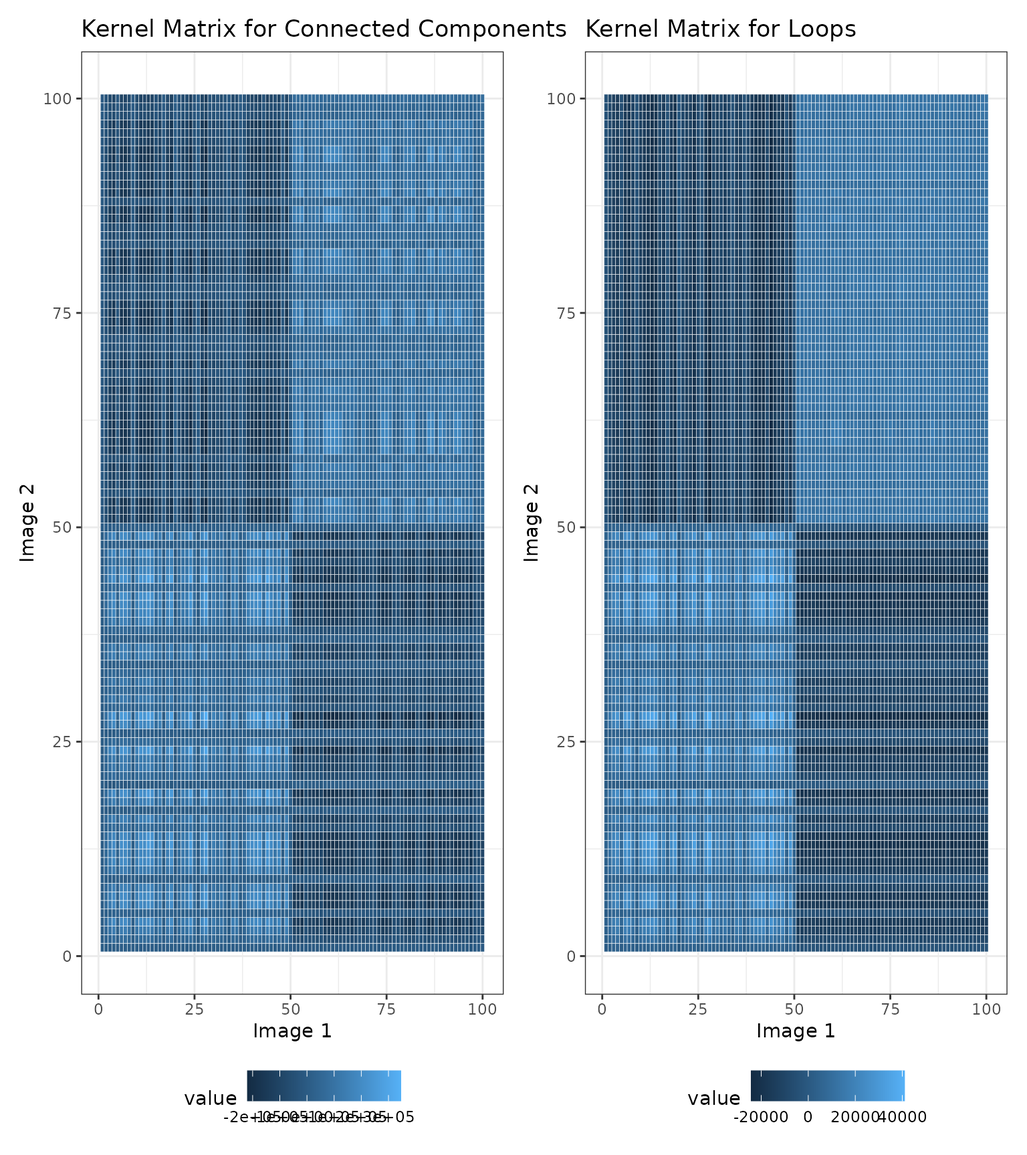
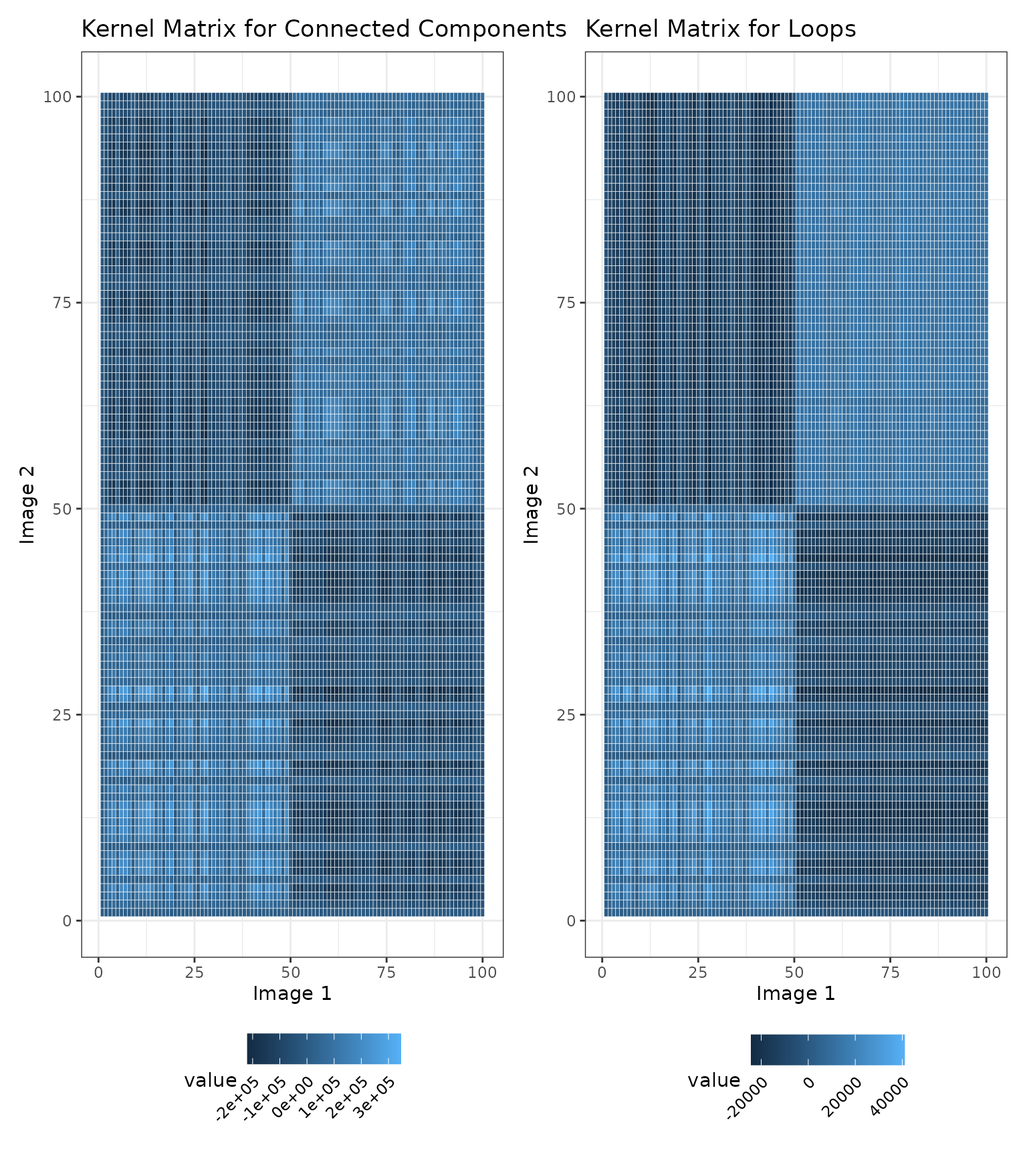
Deploying to gh-pages from @ sarahsamorodnitsky/TopKAT@42ec70c85c84a7fd9c76b6f7232c2986b8667e06 🚀

diff --git a/articles/example_sim_tissue.html b/articles/example_sim_tissue.html
@@ -91,7 +91,7 @@ our simulated data.</p>
 <span><span class="co">#&gt; Registered S3 method overwritten by 'httr':</span></span>
 <span><span class="co">#&gt;   method         from  </span></span>
 <span><span class="co">#&gt;   print.response rmutil</span></span>
-<span><span class="kw"><a href="https://rdrr.io/r/base/library.html" class="external-link">library</a></span><span class="op">(</span><span class="va">gridExtra</span><span class="op">)</span></span>
+<span><span class="kw"><a href="https://rdrr.io/r/base/library.html" class="external-link">library</a></span><span class="op">(</span><span class="va"><a href="https://patchwork.data-imaginist.com" class="external-link">patchwork</a></span><span class="op">)</span></span>
 <span><span class="kw"><a href="https://rdrr.io/r/base/library.html" class="external-link">library</a></span><span class="op">(</span><span class="va"><a href="https://github.com/therneau/survival" class="external-link">survival</a></span><span class="op">)</span></span>
 <span><span class="kw"><a href="https://rdrr.io/r/base/library.html" class="external-link">library</a></span><span class="op">(</span><span class="va"><a href="https://rpkgs.datanovia.com/survminer/index.html" class="external-link">survminer</a></span><span class="op">)</span></span>
 <span><span class="co">#&gt; Loading required package: ggplot2</span></span>
@@ -157,7 +157,7 @@ patterns among the cells.</p>
 <span>  <span class="fu"><a href="https://ggplot2.tidyverse.org/reference/ggtheme.html" class="external-link">theme_bw</a></span><span class="op">(</span><span class="op">)</span> <span class="op">+</span> <span class="fu"><a href="https://ggplot2.tidyverse.org/reference/labs.html" class="external-link">ggtitle</a></span><span class="op">(</span><span class="st">"Sample 52"</span><span class="op">)</span></span>
 <span></span>
 <span><span class="co"># Arrange the plots</span></span>
-<span><span class="fu">gridExtra</span><span class="fu">::</span><span class="fu"><a href="https://rdrr.io/pkg/gridExtra/man/arrangeGrob.html" class="external-link">grid.arrange</a></span><span class="op">(</span><span class="va">p1</span>, <span class="va">p2</span>, <span class="va">p3</span>, <span class="va">p4</span>, ncol <span class="op">=</span> <span class="fl">2</span>, nrow <span class="op">=</span> <span class="fl">2</span><span class="op">)</span></span></code></pre></div>
+<span><span class="op">(</span><span class="va">p1</span> <span class="op">+</span> <span class="va">p2</span> <span class="op">+</span> <span class="va">p3</span> <span class="op">+</span> <span class="va">p4</span> <span class="op">&amp;</span> <span class="fu"><a href="https://ggplot2.tidyverse.org/reference/theme.html" class="external-link">theme</a></span><span class="op">(</span>legend.position <span class="op">=</span> <span class="st">"bottom"</span><span class="op">)</span><span class="op">)</span> <span class="op">+</span> <span class="fu"><a href="https://patchwork.data-imaginist.com/reference/plot_layout.html" class="external-link">plot_layout</a></span><span class="op">(</span>guides <span class="op">=</span> <span class="st">"collect"</span><span class="op">)</span></span></code></pre></div>
 <p><img src="example_sim_tissue_files/figure-html/plotting%20the%20data-1.png" width="768" style="display: block; margin: auto;">
 ## Applying TopKAT</p>
 <p>The goal of TopKAT is to test whether images with similar geometric
@@ -165,8 +165,8 @@ structures created by cells correspond to patients with similar outcomes
 (in this case, survival). The null hypothesis we wish to test is:</p>
 <p><math display="inline" xmlns="http://www.w3.org/1998/Math/MathML"><semantics><msub><mi>H</mi><mn>0</mn></msub><annotation encoding="application/x-tex">H_0</annotation></semantics></math>:
 There is no association between survival time and topological structure
-of cells
-<math display="inline" xmlns="http://www.w3.org/1998/Math/MathML"><semantics><msub><mi>H</mi><mn>1</mn></msub><annotation encoding="application/x-tex">H_1</annotation></semantics></math>:
+of cells \</p>
+<p><math display="inline" xmlns="http://www.w3.org/1998/Math/MathML"><semantics><msub><mi>H</mi><mn>1</mn></msub><annotation encoding="application/x-tex">H_1</annotation></semantics></math>:
 There is an association between survival time and topological structure
 of cells</p>
 <p>If the TopKAT p-value is small, this is evidence against
@@ -202,7 +202,7 @@ corresponding persistence diagrams for the four samples shown above.</p>
 <span><span class="va">pd4</span> <span class="op">&lt;-</span> <span class="fu"><a href="../reference/plot_persistence.html">plot_persistence</a></span><span class="op">(</span><span class="va">simmat</span><span class="op">$</span><span class="va">rips.list</span><span class="op">[[</span><span class="fl">52</span><span class="op">]</span><span class="op">]</span>, title <span class="op">=</span> <span class="st">"Patient 52"</span><span class="op">)</span></span>
 <span></span>
 <span><span class="co"># Arrange the plots</span></span>
-<span><span class="fu">gridExtra</span><span class="fu">::</span><span class="fu"><a href="https://rdrr.io/pkg/gridExtra/man/arrangeGrob.html" class="external-link">grid.arrange</a></span><span class="op">(</span><span class="va">pd1</span>, <span class="va">pd2</span>, <span class="va">pd3</span>, <span class="va">pd4</span>, ncol <span class="op">=</span> <span class="fl">2</span>, nrow <span class="op">=</span> <span class="fl">2</span><span class="op">)</span></span></code></pre></div>
+<span><span class="op">(</span><span class="va">pd1</span> <span class="op">+</span> <span class="va">pd2</span> <span class="op">+</span> <span class="va">pd3</span> <span class="op">+</span> <span class="va">pd4</span> <span class="op">&amp;</span> <span class="fu"><a href="https://ggplot2.tidyverse.org/reference/theme.html" class="external-link">theme</a></span><span class="op">(</span>legend.position <span class="op">=</span> <span class="st">"bottom"</span><span class="op">)</span><span class="op">)</span> <span class="op">+</span> <span class="fu"><a href="https://patchwork.data-imaginist.com/reference/plot_layout.html" class="external-link">plot_layout</a></span><span class="op">(</span>guides <span class="op">=</span> <span class="st">"collect"</span><span class="op">)</span></span></code></pre></div>
 <p><img src="example_sim_tissue_files/figure-html/example%20PDs-1.png" width="768" style="display: block; margin: auto;"></p>
 <p>We also show a visualization of the kernel matrices to describe the
 similarities among the images. Note that the similarity values in the
@@ -216,7 +216,8 @@ to compare the similarities between two pairs of images.</p>
 <span>  <span class="fu"><a href="https://ggplot2.tidyverse.org/reference/geom_tile.html" class="external-link">geom_tile</a></span><span class="op">(</span>color <span class="op">=</span> <span class="st">"white"</span><span class="op">)</span> <span class="op">+</span></span>
 <span>  <span class="fu"><a href="https://ggplot2.tidyverse.org/reference/ggtheme.html" class="external-link">theme_bw</a></span><span class="op">(</span><span class="op">)</span> <span class="op">+</span></span>
 <span>  <span class="fu"><a href="https://ggplot2.tidyverse.org/reference/labs.html" class="external-link">xlab</a></span><span class="op">(</span><span class="st">"Image 1"</span><span class="op">)</span> <span class="op">+</span> <span class="fu"><a href="https://ggplot2.tidyverse.org/reference/labs.html" class="external-link">ylab</a></span><span class="op">(</span><span class="st">"Image 2"</span><span class="op">)</span> <span class="op">+</span></span>
-<span>  <span class="fu"><a href="https://ggplot2.tidyverse.org/reference/labs.html" class="external-link">ggtitle</a></span><span class="op">(</span><span class="st">"Kernel Matrix for Connected Components"</span><span class="op">)</span></span>
+<span>  <span class="fu"><a href="https://ggplot2.tidyverse.org/reference/labs.html" class="external-link">ggtitle</a></span><span class="op">(</span><span class="st">"Kernel Matrix for Connected Components"</span><span class="op">)</span> <span class="op">+</span></span>
+<span>  <span class="fu"><a href="https://ggplot2.tidyverse.org/reference/theme.html" class="external-link">theme</a></span><span class="op">(</span>legend.text <span class="op">=</span> <span class="fu"><a href="https://ggplot2.tidyverse.org/reference/element.html" class="external-link">element_text</a></span><span class="op">(</span>angle <span class="op">=</span> <span class="fl">45</span>, hjust <span class="op">=</span> <span class="fl">1</span><span class="op">)</span><span class="op">)</span></span>
 <span>  </span>
 <span></span>
 <span><span class="co"># Visualize the kernel matrices for the loops</span></span>
@@ -226,10 +227,11 @@ to compare the similarities between two pairs of images.</p>
 <span>  <span class="fu"><a href="https://ggplot2.tidyverse.org/reference/geom_tile.html" class="external-link">geom_tile</a></span><span class="op">(</span>color <span class="op">=</span> <span class="st">"white"</span><span class="op">)</span> <span class="op">+</span></span>
 <span>  <span class="fu"><a href="https://ggplot2.tidyverse.org/reference/ggtheme.html" class="external-link">theme_bw</a></span><span class="op">(</span><span class="op">)</span> <span class="op">+</span></span>
 <span>  <span class="fu"><a href="https://ggplot2.tidyverse.org/reference/labs.html" class="external-link">xlab</a></span><span class="op">(</span><span class="st">"Image 1"</span><span class="op">)</span> <span class="op">+</span> <span class="fu"><a href="https://ggplot2.tidyverse.org/reference/labs.html" class="external-link">ylab</a></span><span class="op">(</span><span class="st">"Image 2"</span><span class="op">)</span> <span class="op">+</span></span>
-<span>  <span class="fu"><a href="https://ggplot2.tidyverse.org/reference/labs.html" class="external-link">ggtitle</a></span><span class="op">(</span><span class="st">"Kernel Matrix for Loops"</span><span class="op">)</span></span>
+<span>  <span class="fu"><a href="https://ggplot2.tidyverse.org/reference/labs.html" class="external-link">ggtitle</a></span><span class="op">(</span><span class="st">"Kernel Matrix for Loops"</span><span class="op">)</span> <span class="op">+</span></span>
+<span>  <span class="fu"><a href="https://ggplot2.tidyverse.org/reference/theme.html" class="external-link">theme</a></span><span class="op">(</span>legend.text <span class="op">=</span> <span class="fu"><a href="https://ggplot2.tidyverse.org/reference/element.html" class="external-link">element_text</a></span><span class="op">(</span>angle <span class="op">=</span> <span class="fl">45</span>, hjust <span class="op">=</span> <span class="fl">1</span><span class="op">)</span><span class="op">)</span></span>
 <span></span>
 <span><span class="co"># Arrange the plots</span></span>
-<span><span class="fu">gridExtra</span><span class="fu">::</span><span class="fu"><a href="https://rdrr.io/pkg/gridExtra/man/arrangeGrob.html" class="external-link">grid.arrange</a></span><span class="op">(</span><span class="va">K.cc</span>, <span class="va">K.loop</span>, ncol <span class="op">=</span> <span class="fl">2</span><span class="op">)</span></span></code></pre></div>
+<span><span class="va">K.cc</span> <span class="op">+</span> <span class="va">K.loop</span> <span class="op">&amp;</span> <span class="fu"><a href="https://ggplot2.tidyverse.org/reference/theme.html" class="external-link">theme</a></span><span class="op">(</span>legend.position <span class="op">=</span> <span class="st">"bottom"</span><span class="op">)</span></span></code></pre></div>
 <p><img src="example_sim_tissue_files/figure-html/visualize%20the%20kernel%20matrices-1.png" width="768" style="display: block; margin: auto;"></p>
 <p>Finally, we can test for an association with survival given the
 kernel matrices we computed above. Since we have two kernel matrices, we
@@ -239,7 +241,7 @@ results across different mixtures. A straightforward choice of weights
 is
 <math display="inline" xmlns="http://www.w3.org/1998/Math/MathML"><semantics><mrow><mi>ω</mi><mo>=</mo><mrow><mo stretchy="true" form="prefix">(</mo><mn>0</mn><mo>,</mo><mn>0.5</mn><mo>,</mo><mn>1</mn><mo stretchy="true" form="postfix">)</mo></mrow></mrow><annotation encoding="application/x-tex">\omega = (0, 0.5, 1)</annotation></semantics></math>
 in the following linear combination:</p>
-<p>$ K^{agg} = (1-) K_0 + K_1$</p>
+<p><math display="inline" xmlns="http://www.w3.org/1998/Math/MathML"><semantics><mrow><msup><mi>K</mi><mrow><mi>a</mi><mi>g</mi><mi>g</mi></mrow></msup><mo>=</mo><mrow><mo stretchy="true" form="prefix">(</mo><mn>1</mn><mo>−</mo><mi>ω</mi><mo stretchy="true" form="postfix">)</mo></mrow><msub><mi>K</mi><mn>0</mn></msub><mo>+</mo><mi>ω</mi><msub><mi>K</mi><mn>1</mn></msub></mrow><annotation encoding="application/x-tex">K^{agg} = (1-\omega) K_0 + \omega K_1</annotation></semantics></math></p>
 <p>We now apply TopKAT. As shown below, the TopKAT p-value is
 significant,
 <math display="inline" xmlns="http://www.w3.org/1998/Math/MathML"><semantics><mrow><mn>2</mn><mo>×</mo><msup><mn>10</mn><mrow><mo>−</mo><mn>5</mn></mrow></msup></mrow><annotation encoding="application/x-tex">2\times 10^{-5}</annotation></semantics></math>.</p>
@@ -320,7 +322,7 @@ like for our example images:</p>
 <span><span class="op">)</span></span>
 <span></span>
 <span><span class="co"># Arrange the plots</span></span>
-<span><span class="fu">gridExtra</span><span class="fu">::</span><span class="fu"><a href="https://rdrr.io/pkg/gridExtra/man/arrangeGrob.html" class="external-link">grid.arrange</a></span><span class="op">(</span><span class="va">sc1</span>, <span class="va">sc2</span>, <span class="va">sc3</span>, <span class="va">sc4</span>, nrow <span class="op">=</span> <span class="fl">2</span>, ncol <span class="op">=</span> <span class="fl">2</span><span class="op">)</span></span></code></pre></div>
+<span><span class="va">sc1</span> <span class="op">+</span> <span class="va">sc2</span> <span class="op">+</span> <span class="va">sc3</span> <span class="op">+</span> <span class="va">sc4</span></span></code></pre></div>
 <p><img src="example_sim_tissue_files/figure-html/simplicial%20complex-1.png" width="768" style="display: block; margin: auto;"></p>
 <p>Finally, we can examine the connectivity of the cell types at this
 radius using connectivity matrices. These matrices enumerate how many
@@ -362,7 +364,7 @@ We visualize these matrices for the four samples given above.</p>
 <span><span class="op">)</span></span>
 <span></span>
 <span><span class="co"># Arrange the plots</span></span>
-<span><span class="fu">gridExtra</span><span class="fu">::</span><span class="fu"><a href="https://rdrr.io/pkg/gridExtra/man/arrangeGrob.html" class="external-link">grid.arrange</a></span><span class="op">(</span><span class="va">c1</span>, <span class="va">c2</span>, <span class="va">c3</span>, <span class="va">c4</span>, nrow <span class="op">=</span> <span class="fl">2</span>, ncol <span class="op">=</span> <span class="fl">2</span><span class="op">)</span></span></code></pre></div>
+<span><span class="va">c1</span> <span class="op">+</span> <span class="va">c2</span> <span class="op">+</span> <span class="va">c3</span> <span class="op">+</span> <span class="va">c4</span></span></code></pre></div>
 <p><img src="example_sim_tissue_files/figure-html/connectivity%20matrices-1.png" width="768" style="display: block; margin: auto;"></p>
 <p>It can also be illustrative to compute an average connectivity matrix
 across the whole cohort or within known patient samples, as shown

diff --git a/articles/TopKAT.html b/articles/TopKAT.html
@@ -97,7 +97,6 @@ our simulated data.</p>
 <span><span class="co">#&gt;   method         from  </span></span>
 <span><span class="co">#&gt;   print.response rmutil</span></span>
 <span><span class="kw"><a href="https://rdrr.io/r/base/library.html" class="external-link">library</a></span><span class="op">(</span><span class="va"><a href="https://patchwork.data-imaginist.com" class="external-link">patchwork</a></span><span class="op">)</span></span>
-<span><span class="kw"><a href="https://rdrr.io/r/base/library.html" class="external-link">library</a></span><span class="op">(</span><span class="va">gridExtra</span><span class="op">)</span></span>
 <span><span class="kw"><a href="https://rdrr.io/r/base/library.html" class="external-link">library</a></span><span class="op">(</span><span class="va"><a href="https://github.com/therneau/survival" class="external-link">survival</a></span><span class="op">)</span></span>
 <span><span class="kw"><a href="https://rdrr.io/r/base/library.html" class="external-link">library</a></span><span class="op">(</span><span class="va"><a href="https://rpkgs.datanovia.com/survminer/index.html" class="external-link">survminer</a></span><span class="op">)</span></span>
 <span><span class="co">#&gt; Loading required package: ggplot2</span></span>
@@ -120,17 +119,17 @@ our simulated data.</p>
 <span><span class="co">#&gt; 4   1  1 44.48928 16.3068 cell type 4</span></span>
 <span><span class="co">#&gt; 5   1  1 45.48928 16.3068 cell type 3</span></span>
 <span><span class="co">#&gt; 6   1  1 46.48928 16.3068 cell type 3</span></span></code></pre></div>
-<p>As you can see, the data is organized so that each row corresponds to
-a cell within each image. The <code>PID</code> column refers to the
-sample or patient ID which, in this case, enumerates from <code>1</code>
-to <code>100</code>. The <code>id</code> column enumerates the image
-number within the sample since in many applications we have multiple
-images per patient. In this case, the <code>PID</code> and
-<code>id</code> columns are the same because we simulated a single image
-for each sample. The <code>x</code> and <code>y</code> columns denote
-the 2D coordinates of the cell locations. The <code>type</code> column
-contains a simulated type for each cell, ranging from
-<code>cell type 1</code> to <code>cell type 4</code>.</p>
+<p>The data is organized so that each row corresponds to a cell within
+each image. The <code>PID</code> column refers to the sample or patient
+ID which, in this case, enumerates from <code>1</code> to
+<code>100</code>. The <code>id</code> column enumerates the image number
+within the sample since in many applications we have multiple images per
+patient. In this case, the <code>PID</code> and <code>id</code> columns
+are the same because we simulated a single image for each sample. The
+<code>x</code> and <code>y</code> columns denote the 2D coordinates of
+the cell locations. The <code>type</code> column contains a simulated
+type for each cell, ranging from <code>cell type 1</code> to
+<code>cell type 4</code>.</p>
 <p>To simulate this data, we split the 100 samples into two groups of
 50. For the first 50 samples, we generated random numbers of squares.
 For the latter 50, we generated random numbers of unit circles. For
@@ -179,8 +178,8 @@ structures created by cells correspond to patients with similar outcomes
 (in this case, survival). The null hypothesis we wish to test is:</p>
 <p><math display="inline" xmlns="http://www.w3.org/1998/Math/MathML"><semantics><msub><mi>H</mi><mn>0</mn></msub><annotation encoding="application/x-tex">H_0</annotation></semantics></math>:
 There is no association between survival time and topological structure
-of cells
-<math display="inline" xmlns="http://www.w3.org/1998/Math/MathML"><semantics><msub><mi>H</mi><mn>1</mn></msub><annotation encoding="application/x-tex">H_1</annotation></semantics></math>:
+of cells</p>
+<p><math display="inline" xmlns="http://www.w3.org/1998/Math/MathML"><semantics><msub><mi>H</mi><mn>1</mn></msub><annotation encoding="application/x-tex">H_1</annotation></semantics></math>:
 There is an association between survival time and topological structure
 of cells</p>
 <p>If the TopKAT p-value is small, this is evidence against
@@ -251,7 +250,8 @@ to compare the similarities between two pairs of images.</p>
 <span>  <span class="fu"><a href="https://ggplot2.tidyverse.org/reference/geom_tile.html" class="external-link">geom_tile</a></span><span class="op">(</span>color <span class="op">=</span> <span class="st">"white"</span><span class="op">)</span> <span class="op">+</span></span>
 <span>  <span class="fu"><a href="https://ggplot2.tidyverse.org/reference/ggtheme.html" class="external-link">theme_bw</a></span><span class="op">(</span><span class="op">)</span> <span class="op">+</span></span>
 <span>  <span class="fu"><a href="https://ggplot2.tidyverse.org/reference/labs.html" class="external-link">xlab</a></span><span class="op">(</span><span class="st">"Image 1"</span><span class="op">)</span> <span class="op">+</span> <span class="fu"><a href="https://ggplot2.tidyverse.org/reference/labs.html" class="external-link">ylab</a></span><span class="op">(</span><span class="st">"Image 2"</span><span class="op">)</span> <span class="op">+</span></span>
-<span>  <span class="fu"><a href="https://ggplot2.tidyverse.org/reference/labs.html" class="external-link">ggtitle</a></span><span class="op">(</span><span class="st">"Kernel Matrix for Connected Components"</span><span class="op">)</span></span>
+<span>  <span class="fu"><a href="https://ggplot2.tidyverse.org/reference/labs.html" class="external-link">ggtitle</a></span><span class="op">(</span><span class="st">"Kernel Matrix for Connected Components"</span><span class="op">)</span> <span class="op">+</span></span>
+<span>  <span class="fu"><a href="https://ggplot2.tidyverse.org/reference/theme.html" class="external-link">theme</a></span><span class="op">(</span>legend.text <span class="op">=</span> <span class="fu"><a href="https://ggplot2.tidyverse.org/reference/element.html" class="external-link">element_text</a></span><span class="op">(</span>angle <span class="op">=</span> <span class="fl">45</span>, hjust <span class="op">=</span> <span class="fl">1</span><span class="op">)</span><span class="op">)</span></span>
 <span>  </span>
 <span></span>
 <span><span class="co"># Visualize the kernel matrices for the loops</span></span>
@@ -261,7 +261,8 @@ to compare the similarities between two pairs of images.</p>
 <span>  <span class="fu"><a href="https://ggplot2.tidyverse.org/reference/geom_tile.html" class="external-link">geom_tile</a></span><span class="op">(</span>color <span class="op">=</span> <span class="st">"white"</span><span class="op">)</span> <span class="op">+</span></span>
 <span>  <span class="fu"><a href="https://ggplot2.tidyverse.org/reference/ggtheme.html" class="external-link">theme_bw</a></span><span class="op">(</span><span class="op">)</span> <span class="op">+</span></span>
 <span>  <span class="fu"><a href="https://ggplot2.tidyverse.org/reference/labs.html" class="external-link">xlab</a></span><span class="op">(</span><span class="st">"Image 1"</span><span class="op">)</span> <span class="op">+</span> <span class="fu"><a href="https://ggplot2.tidyverse.org/reference/labs.html" class="external-link">ylab</a></span><span class="op">(</span><span class="st">"Image 2"</span><span class="op">)</span> <span class="op">+</span></span>
-<span>  <span class="fu"><a href="https://ggplot2.tidyverse.org/reference/labs.html" class="external-link">ggtitle</a></span><span class="op">(</span><span class="st">"Kernel Matrix for Loops"</span><span class="op">)</span></span>
+<span>  <span class="fu"><a href="https://ggplot2.tidyverse.org/reference/labs.html" class="external-link">ggtitle</a></span><span class="op">(</span><span class="st">"Kernel Matrix for Loops"</span><span class="op">)</span> <span class="op">+</span></span>
+<span>  <span class="fu"><a href="https://ggplot2.tidyverse.org/reference/theme.html" class="external-link">theme</a></span><span class="op">(</span>legend.text <span class="op">=</span> <span class="fu"><a href="https://ggplot2.tidyverse.org/reference/element.html" class="external-link">element_text</a></span><span class="op">(</span>angle <span class="op">=</span> <span class="fl">45</span>, hjust <span class="op">=</span> <span class="fl">1</span><span class="op">)</span><span class="op">)</span></span>
 <span></span>
 <span><span class="co"># Arrange the plots</span></span>
 <span><span class="va">K.cc</span> <span class="op">+</span> <span class="va">K.loop</span> <span class="op">&amp;</span> <span class="fu"><a href="https://ggplot2.tidyverse.org/reference/theme.html" class="external-link">theme</a></span><span class="op">(</span>legend.position <span class="op">=</span> <span class="st">"bottom"</span><span class="op">)</span></span></code></pre></div>
@@ -274,7 +275,7 @@ results across different mixtures. A straightforward choice of weights
 is
 <math display="inline" xmlns="http://www.w3.org/1998/Math/MathML"><semantics><mrow><mi>ω</mi><mo>=</mo><mrow><mo stretchy="true" form="prefix">(</mo><mn>0</mn><mo>,</mo><mn>0.5</mn><mo>,</mo><mn>1</mn><mo stretchy="true" form="postfix">)</mo></mrow></mrow><annotation encoding="application/x-tex">\omega = (0, 0.5, 1)</annotation></semantics></math>
 in the following linear combination:</p>
-<p>$ K^{agg} = (1-) K_0 + K_1$</p>
+<p><math display="inline" xmlns="http://www.w3.org/1998/Math/MathML"><semantics><mrow><msup><mi>K</mi><mrow><mi>a</mi><mi>g</mi><mi>g</mi></mrow></msup><mo>=</mo><mrow><mo stretchy="true" form="prefix">(</mo><mn>1</mn><mo>−</mo><mi>ω</mi><mo stretchy="true" form="postfix">)</mo></mrow><msub><mi>K</mi><mn>0</mn></msub><mo>+</mo><mi>ω</mi><msub><mi>K</mi><mn>1</mn></msub></mrow><annotation encoding="application/x-tex">K^{agg} = (1-\omega) K_0 + \omega K_1</annotation></semantics></math></p>
 <p>We now apply TopKAT. As shown below, the TopKAT p-value is
 significant,
 <math display="inline" xmlns="http://www.w3.org/1998/Math/MathML"><semantics><mrow><mn>3</mn><mo>×</mo><msup><mn>10</mn><mrow><mo>−</mo><mn>5</mn></mrow></msup></mrow><annotation encoding="application/x-tex">3\times 10^{-5}</annotation></semantics></math>.</p>
@@ -299,14 +300,19 @@ combination of kernel matrices:</p>
 </h2>
 <p>So far, we have shown that there is a significant association between
 the geometric arrangements of cells in the images and survival. We can
-now explore which distances are most ``important” (i.e., significant)
-and assess which cell types are connected at this distance.</p>
-<p>To do this, we use the <code>scale_importance</code> function. This
-function iteratively runs <code>TopKAT</code> on an increasing sequence
-of radii and stores the resulting p-value at each radius. We will then
-examine the connections among the cells at this radius. We set the
-maximum radius (<code>threshold</code>) and the function will select a
-sequence of radii between
+now explore which distances are most ``important” (i.e., significantly
+associated with the outcome) and assess which cell types are connected
+at this distance.</p>
+<p>To do this, we use the <code>scale_importance</code> function. Given
+a sequence of radii, this function iteratively runs <code>TopKAT</code>,
+thresholding the persistence diagrams at each radius. For each
+thresholded persistence diagram, the function then runs the same
+process: calculating the similarity between persistence diagrams and
+testing for an association with the outcome. The resulting p-value for
+each radius is stored and we will then examine the connections among the
+cells at the radius which yields the minimum p-value. We set the maximum
+radius (<code>threshold</code>) and the function will select a sequence
+of radii between
 <math display="inline" xmlns="http://www.w3.org/1998/Math/MathML"><semantics><mn>0</mn><annotation encoding="application/x-tex">0</annotation></semantics></math>
 and <code>threshold</code> to run TopKAT at.</p>
 <div class="sourceCode" id="cb8"><pre class="downlit sourceCode r">
